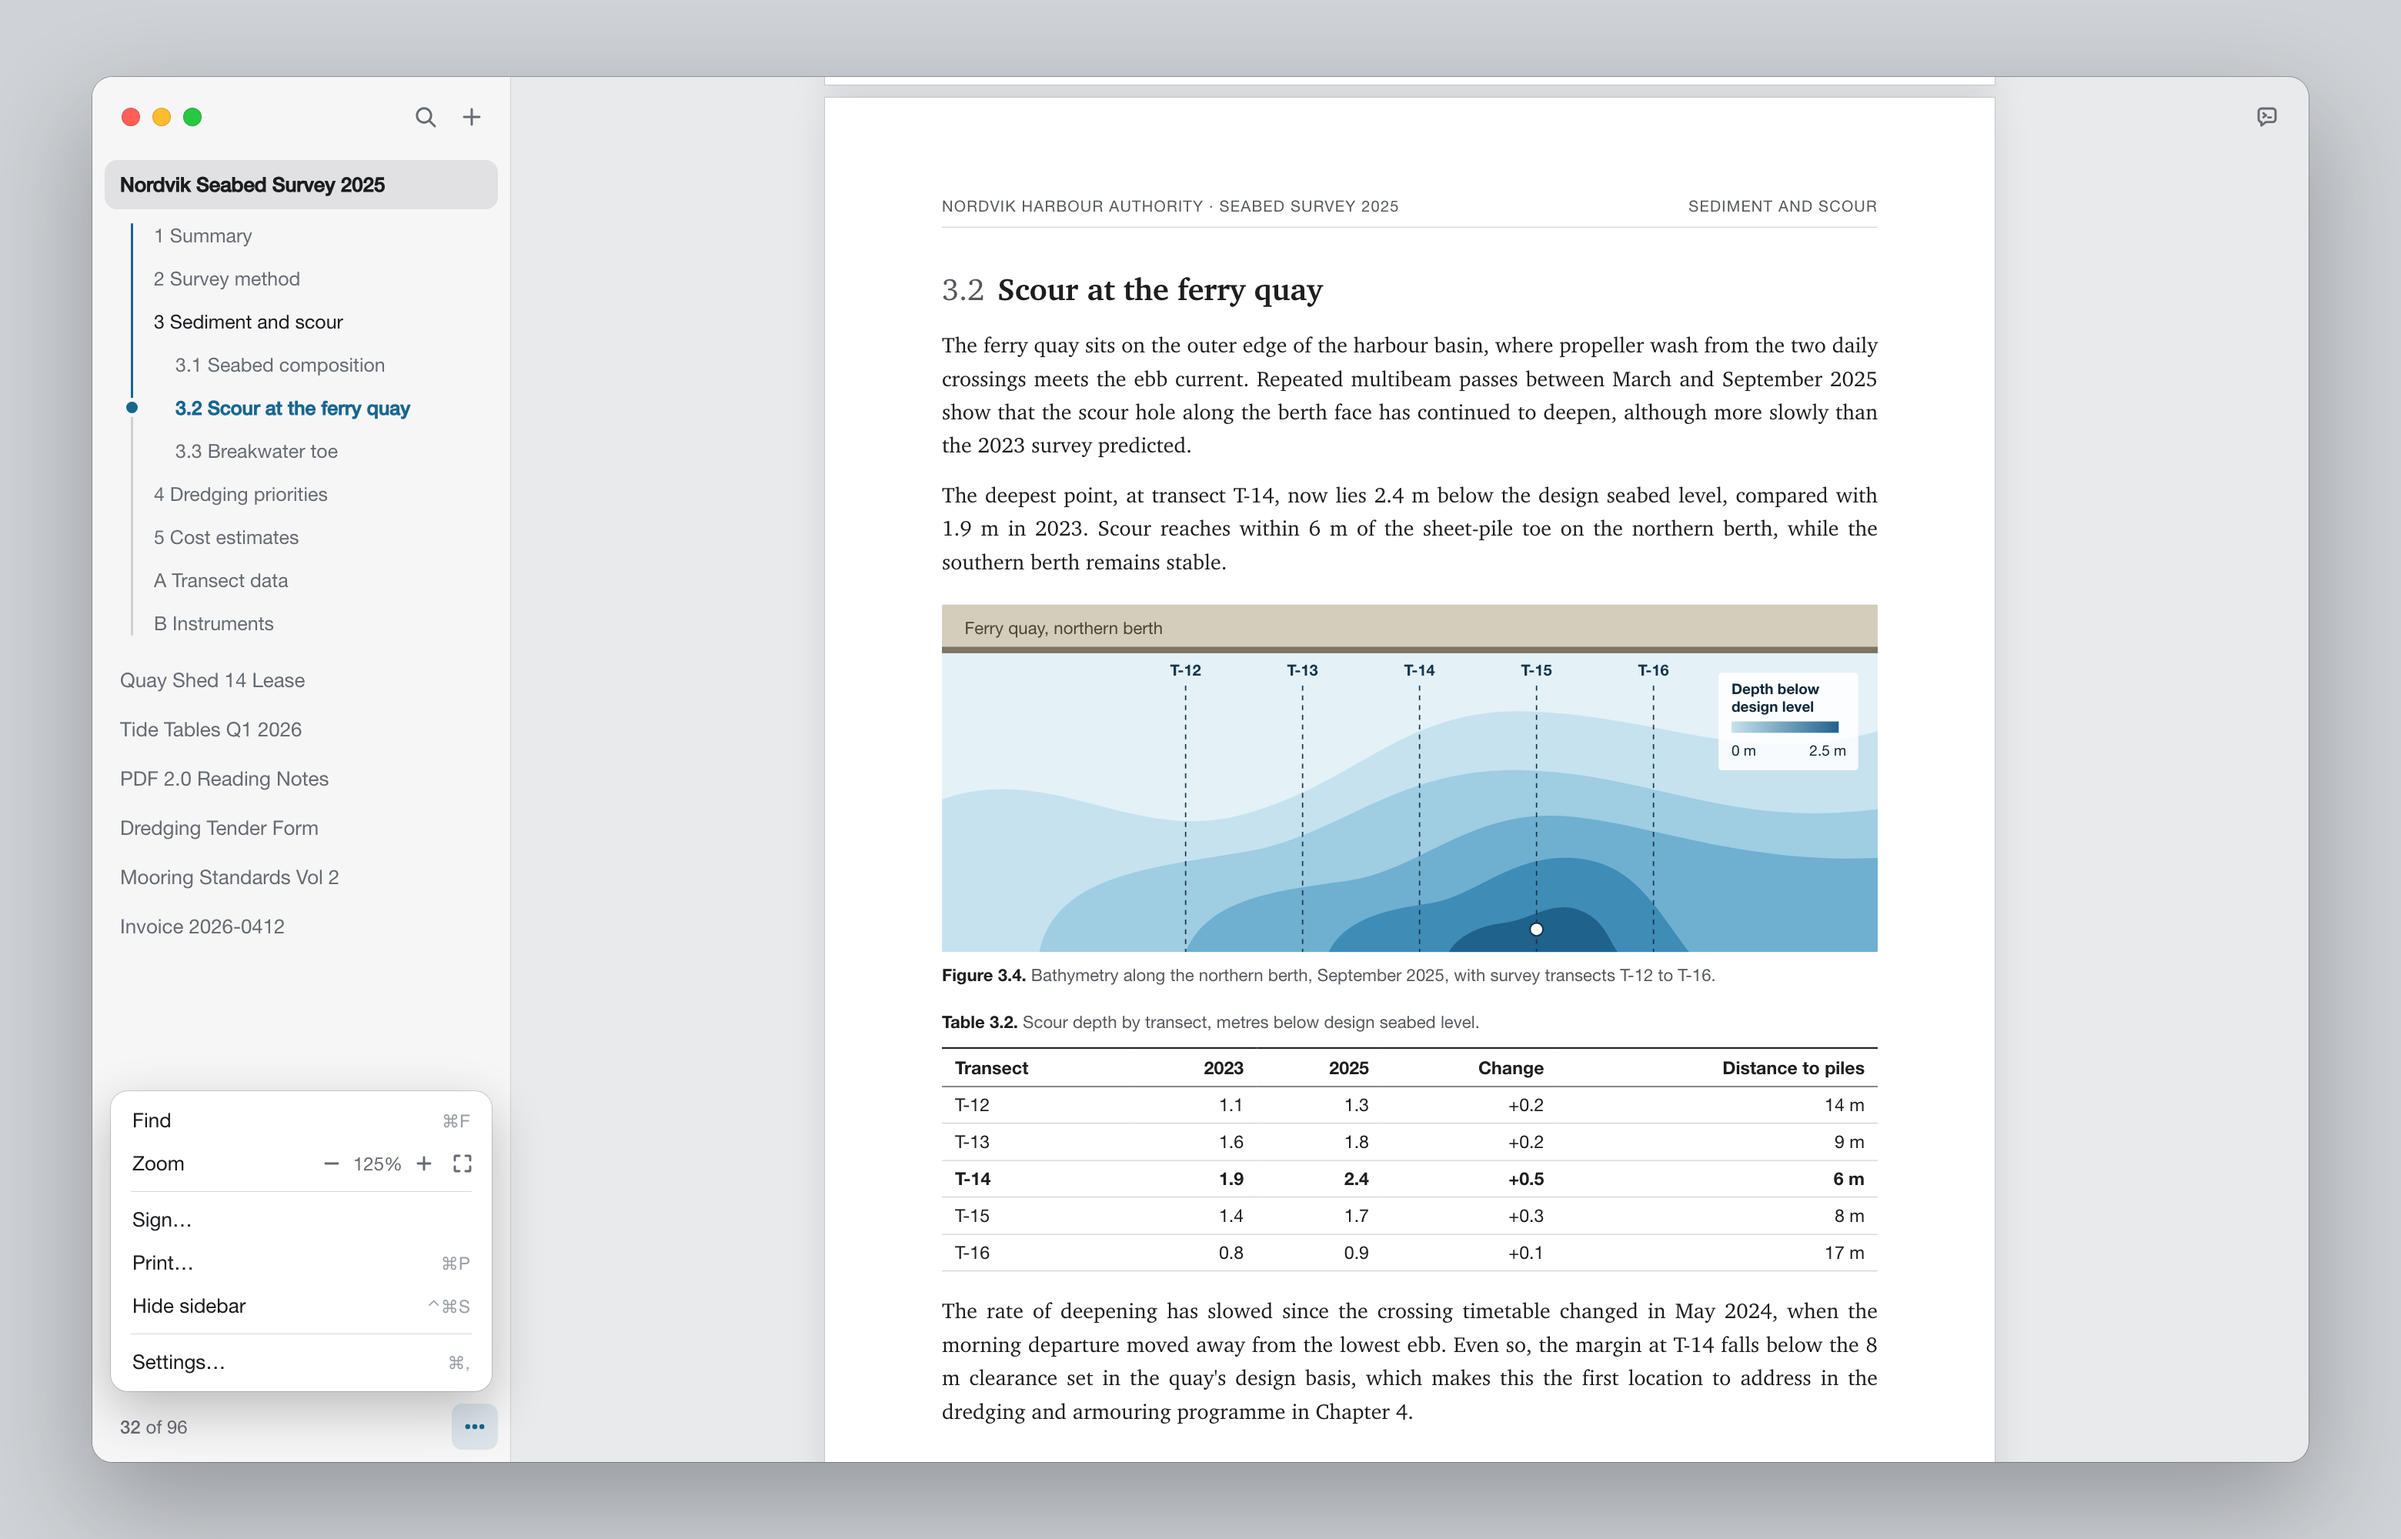
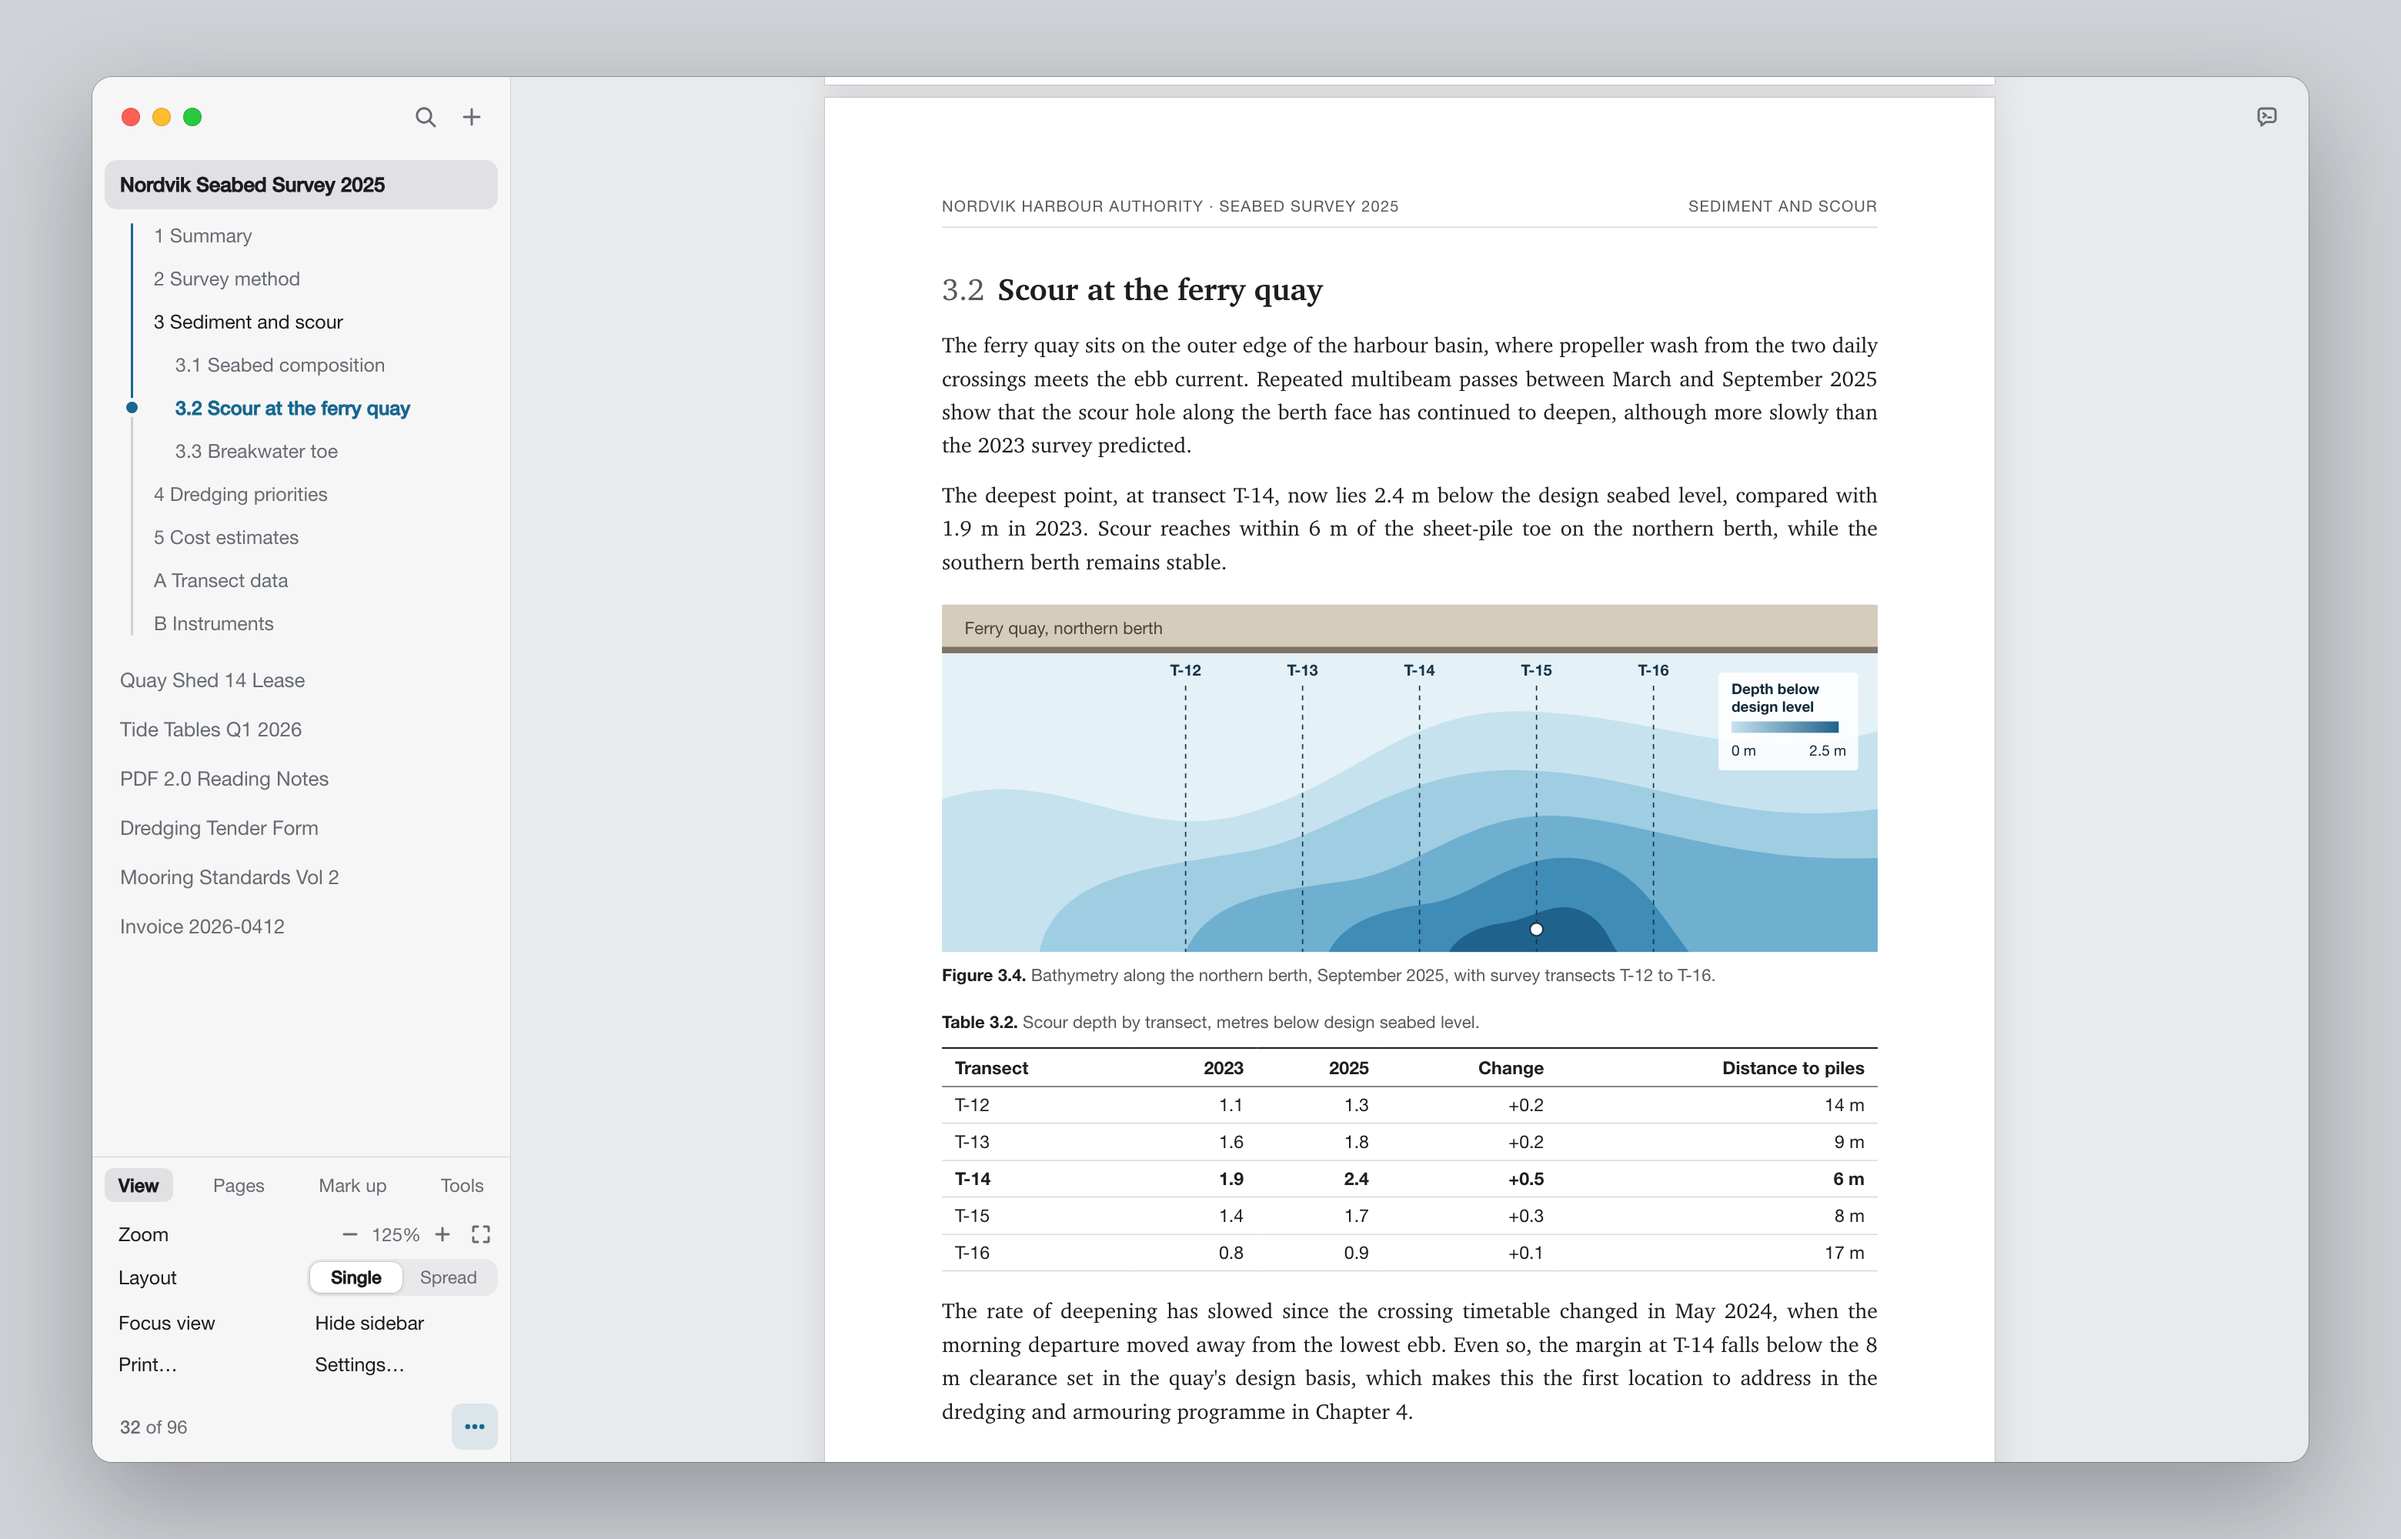
Move tools into a compact panel in the lower sidebar
The ⋯ button now opens a docked panel with View, Pages, Mark up and Tools tabs,
so complex features add no permanent buttons and the PDF list stays visible.
Tools open in place, shown here with Compress.

Changed region(s): [[0.0311, 0.744, 0.2176, 0.93]]

diff --git a/docs/concepts/src/concept.js b/docs/concepts/src/concept.js
@@ -25,6 +25,7 @@ const I = {
   send: svg(14, 14, '<path d="M7 11.5v-9M3.4 6 7 2.5 10.6 6"/>'),
   seal: svg(14, 14, '<path d="M7 1.3 8.5 2.5l1.9-.1.6 1.8 1.6 1.1-.7 1.8.7 1.7-1.6 1.1-.6 1.9-1.9-.1L7 12.7l-1.5-1.2-1.9.1-.6-1.9-1.6-1.1.7-1.7-.7-1.8L3 4.2l.6-1.8 1.9.1z"/><path d="m5 7 1.5 1.5L9.2 5.7"/>'),
   sigmark: svg(14, 14, '<path d="M7 1.3 8.5 2.5l1.9-.1.6 1.8 1.6 1.1-.7 1.8.7 1.7-1.6 1.1-.6 1.9-1.9-.1L7 12.7l-1.5-1.2-1.9.1-.6-1.9-1.6-1.1.7-1.7-.7-1.8L3 4.2l.6-1.8 1.9.1z"/>'),
+  back: svg(10, 10, '<path d="M6.5 1.8 3.100 5l3.400 3.200"/>'),
   key: svg(15, 15, '<circle cx="5" cy="10" r="2.8"/><path d="m7 8 5.2-5.2M10 5l1.8 1.8"/>'),
   lock: svg(14, 14, '<rect x="3" y="6.2" width="8" height="5.8" rx="1.3"/><path d="M4.8 6.2V4.6a2.2 2.2 0 0 1 4.4 0v1.6"/>'),
   page: svg(14, 14, '<path d="M3.5 2.8c0-.5.4-.9.9-.9h3.7l2.4 2.4v6.9c0 .5-.4.9-.9.9H4.4a.9.9 0 0 1-.9-.9z"/><path d="M8 2v2.4h2.4"/>'),
@@ -71,21 +72,34 @@ function sidebar({ active = "survey", open = true, tabs = TABS, tap = false, hov
   return `<aside class="sidebar">
     <div class="side-top"><div class="lights"><i></i><i></i><i></i></div><span class="ibtn ${on.includes("search") ? "on" : ""}">${I.search}</span><span class="ibtn">${I.plus}</span></div>
     <div class="tabs" style="position:relative">${rows}${tap ? '<span class="tap"></span>' : ""}</div>
-    <div class="side-foot">${chrome ? `<span class="place"><b>${pg[0]}</b> of ${pg[1]}</span>` : "<span></span>"}<span class="ibtn ${on.includes("more") ? "on" : ""}">${I.more}</span></div>
-    ${menu}
+    ${menu}<div class="side-foot">${chrome ? `<span class="place"><b>${pg[0]}</b> of ${pg[1]}</span>` : "<span></span>"}<span class="ibtn ${on.includes("more") ? "on" : ""}">${I.more}</span></div>
   </aside>`;
 }
 
 const AGENT = (on = false) => `<span class="ibtn agentbtn ${on ? "on" : ""}">${I.ask}</span>`;
 const pill = (page, total) => `<div class="pill"><span class="sec"><span class="num">${page}</span> of ${total}</span></div>`;
-const MENU = () => `<div class="menu">
-  <div class="mi">Find<kbd>⌘F</kbd></div>
-  <div class="mi zoomrow">Zoom<span class="zoom"><span class="zb">${I.minus}</span>125%<span class="zb">${I.plus14}</span><span class="zb">${I.fit}</span></span></div>
-  ${theme === "dark" ? `<div class="mi paperrow">Paper<span class="seg mini"><span class="on">Dark</span><span>White</span></span></div>` : ""}
-  <div class="msep"></div>
-  <div class="mi">Sign…</div><div class="mi">Print…<kbd>⌘P</kbd></div><div class="mi">Hide sidebar<kbd>⌃⌘S</kbd></div>
-  <div class="msep"></div>
-  <div class="mi">Settings…<kbd>⌘,</kbd></div></div>`;
+// The ⋯ button opens this in the lower part of the sidebar. PDFs and contents stay visible above it.
+const DOCK_TABS = ["View", "Pages", "Mark up", "Tools"];
+const grid = (items) => `<div class="dgrid">${items.map((t) => `<span>${t}</span>`).join("")}</div>`;
+const PANES = {
+  View: () => `<div class="dpane">
+    <div class="drow">Zoom<span class="zoom"><span class="zb">${I.minus}</span>125%<span class="zb">${I.plus14}</span><span class="zb">${I.fit}</span></span></div>
+    ${theme === "dark" ? `<div class="drow">Paper<span class="seg mini"><span class="on">Dark</span><span>White</span></span></div>` : ""}
+    <div class="drow">Layout<span class="seg mini"><span class="on">Single</span><span>Spread</span></span></div></div>
+    ${grid(["Focus view", "Hide sidebar", "Print…", "Settings…"])}`,
+  Pages: () => grid(["Thumbnails", "Rotate", "Reorder", "Insert", "Delete", "Extract", "Merge", "Split"]),
+  "Mark up": () => grid(["Highlight", "Underline", "Strikeout", "Note", "Draw", "Image signature", "Fill form", "Create form"]),
+  Tools: () => grid(["Snapshot", "Compare", "Compress", "Make searchable", "Redact", "Remove hidden data", "Watermark", "Bates numbers", "Password", "Measure"]),
+};
+const DOCK = (tab = "View", body = "") => `<div class="dock"><div class="dtabs">${DOCK_TABS.map((t) => `<span class="${t === tab ? "on" : ""}">${t}</span>`).join("")}</div>${body || PANES[tab]()}</div>`;
+const COMPRESS = `<div class="dback">${I.back}Compress<span>41 MB now</span></div>
+  <div class="levels">
+    <div class="lvl"><b>Low</b><span>220 DPI</span><em>33 MB</em></div>
+    <div class="lvl on"><b>Medium</b><span>150 DPI</span><em>18 MB</em></div>
+    <div class="lvl"><b>High</b><span>96 DPI</span><em>9 MB</em></div>
+  </div>
+  <div class="dnote">Text and vector graphics aren't touched.</div>
+  <div class="dsave"><span class="btn primary small">Save copy</span></div>`;
 
 // A bathymetry figure with its own colours: it keeps them in PDF dark mode, like photos do.
 const FIGURE = `<svg viewBox="0 0 576 214" xmlns="http://www.w3.org/2000/svg" font-family="-apple-system, Helvetica Neue, sans-serif">
@@ -217,7 +231,9 @@ const Screens = {
   home: () => `<div class="window">${sidebar({ active: "", tabs: [], chrome: false })}<main class="main">${HOME}</main></div>`,
   reader: () => `<div class="window">${sidebar({})}<main class="main">${surface({ extra: AGENT() })}</main></div>`,
   paperwhite: () => `<div class="window">${sidebar({})}<main class="main">${surface({ cls: "true-page", extra: AGENT() })}</main></div>`,
-  menu: () => `<div class="window">${sidebar({ on: "more", menu: MENU() })}<main class="main">${surface({ extra: AGENT() })}</main></div>`,
+  menu: () => `<div class="window">${sidebar({ on: "more", menu: DOCK("View") })}<main class="main">${surface({ extra: AGENT() })}</main></div>`,
+  tools: () => `<div class="window">${sidebar({ on: "more", menu: DOCK("Tools") })}<main class="main">${surface({ extra: AGENT() })}</main></div>`,
+  compress: () => `<div class="window">${sidebar({ on: "more", menu: DOCK("Tools", COMPRESS) })}<main class="main">${surface({ extra: AGENT() })}</main></div>`,
   find: () => `<div class="window">${sidebar({ on: "search", body: FIND })}<main class="main">${surface({ cls: "show-hits", extra: AGENT() })}</main></div>`,
   ask: () => `<div class="window">${sidebar({})}<main class="main">${surface({ cls: "show-cite", width: 700 })}${ASK}</main></div>`,
   sign: () => `<div class="window">${sidebar({ active: "lease", pg: [6, 6], body: STATUS + tocHtml(LEASE_TOC) })}<main class="main">${surface({ page: LEASE_PAGE, width: 700 })}${SIGN}</main></div>`,

diff --git a/docs/concepts/src/concept.css b/docs/concepts/src/concept.css
@@ -311,14 +311,30 @@ mark { background: transparent; color: inherit; }
 .surface > .agentbtn { position: absolute; top: 11px; right: 12px; z-index: 5; }
 .panel .agentbtn { }
 
-/* The ⋯ menu holds everything that isn't reading. */
-.menu { position: absolute; left: 12px; right: 12px; bottom: 46px; z-index: 9; background: var(--raised); border-radius: 11px; padding: 5px; box-shadow: 0 0 0 .5px var(--hair-strong), 0 12px 34px rgba(0,0,0,.24); font-size: 13px; }
-.mi { display: flex; align-items: center; justify-content: space-between; min-height: 28px; padding: 0 3px 0 9px; border-radius: 6px; }
-.mi kbd { font: 11.5px -apple-system, sans-serif; color: var(--faint); padding-right: 6px; }
-.msep { height: .5px; background: var(--hair-strong); margin: 4px 8px; }
-.mi .zoom { color: var(--muted); font-size: 12px; font-variant-numeric: tabular-nums; }
-.seg.mini { width: 112px; margin: 2px 0; font-size: 11.5px; }
+/* The ⋯ button opens a compact panel docked in the lower sidebar, not a popover. */
+.tabs { min-height: 0; }
+.dock { flex: none; border-top: .5px solid var(--hair-strong); padding: 7px 8px 6px; font-size: 12.5px; }
+.dtabs { display: grid; grid-template-columns: repeat(4, auto); justify-content: space-between; margin-bottom: 7px; }
+.dtabs span { padding: 3px 9px; border-radius: 6px; color: var(--muted); font-size: 12px; }
+.dtabs span.on { color: var(--text); background: var(--fill-strong); font-weight: 560; }
+.dpane { padding-bottom: 2px; }
+.drow { display: flex; align-items: center; justify-content: space-between; min-height: 28px; padding: 0 0 0 9px; }
+.drow .zoom { color: var(--muted); font-size: 12px; font-variant-numeric: tabular-nums; }
+.seg.mini { width: 124px; margin: 0; font-size: 11.5px; }
 .seg.mini span { padding: 2px 0; }
+.dgrid { display: grid; grid-template-columns: 1fr 1fr; }
+.dgrid span { min-height: 27px; display: flex; align-items: center; padding: 0 9px; border-radius: 6px; white-space: nowrap; font-size: 12.5px; }
+.dback { display: flex; align-items: center; gap: 6px; padding: 2px 9px 7px; font-weight: 560; }
+.dback svg { color: var(--muted); }
+.dback span { margin-left: auto; font-weight: 400; color: var(--muted); font-size: 11.5px; }
+.levels { display: grid; grid-template-columns: repeat(3, 1fr); gap: 5px; }
+.lvl { display: flex; flex-direction: column; gap: 1px; padding: 7px 8px; border-radius: 8px; background: var(--fill); font-size: 11px; color: var(--muted); }
+.lvl b { color: var(--text); font-weight: 560; font-size: 12px; }
+.lvl em { font-style: normal; color: var(--text); font-variant-numeric: tabular-nums; margin-top: 2px; }
+.lvl.on { background: var(--accent-soft); box-shadow: inset 0 0 0 1px var(--accent); }
+.dnote { padding: 7px 9px 3px; font-size: 11px; color: var(--muted); }
+.dsave { display: flex; justify-content: flex-end; padding: 3px 1px 2px; }
+.btn.small { height: 26px; padding: 0 11px; font-size: 12px; }
 .frame .side-foot { height: auto; }
 .side-foot .place { display: block; }
 .tap { left: 224px; top: 3px; }

diff --git a/docs/concepts/src/overview.html b/docs/concepts/src/overview.html
@@ -1,3 +1,3 @@
 <!DOCTYPE html><meta charset="utf-8"><title>RectoPDF concepts</title>
 <style>*{margin:0;box-sizing:border-box}body{width:1600px;background:#8d9095;padding:20px;display:grid;grid-template-columns:1fr 1fr;gap:16px}img{width:100%;display:block;border-radius:6px}</style>
-<img src="../home-light.png"><img src="../home-dark.png"><img src="../reader-light.png"><img src="../reader-dark.png"><img src="../reader-dark.png"><img src="../reader-dark-white-paper.png"><img src="../menu-light.png"><img src="../menu-dark.png"><img src="../find-light.png"><img src="../find-dark.png"><img src="../ask-light.png"><img src="../ask-dark.png"><img src="../sign-light.png"><img src="../sign-dark.png"><img src="../focus-light.png"><img src="../focus-dark.png">
+<img src="../home-light.png"><img src="../home-dark.png"><img src="../reader-light.png"><img src="../reader-dark.png"><img src="../reader-dark.png"><img src="../reader-dark-white-paper.png"><img src="../menu-light.png"><img src="../menu-dark.png"><img src="../tools-light.png"><img src="../tools-dark.png"><img src="../compress-light.png"><img src="../compress-dark.png"><img src="../find-light.png"><img src="../find-dark.png"><img src="../ask-light.png"><img src="../ask-dark.png"><img src="../sign-light.png"><img src="../sign-dark.png"><img src="../focus-light.png"><img src="../focus-dark.png">

diff --git a/SPEC.md b/SPEC.md
@@ -70,7 +70,7 @@ Reference: `docs/concepts/`. Rules from the owner:
 - **No top bar.** Maximum vertical reading space; nothing sits above or over a page.
 - **Tabs live in the sidebar.** Tapping the active PDF folds or opens its contents.
 - **At rest the sidebar is only names and contents.** The rail fills as you read. Chevron and page numbers appear on hover.
-- **Everything else** lives in a `⋯` menu and a ⌘K command list, or appears when relevant.
+- **Everything else lives in a compact panel** that the `⋯` button opens in the lower part of the sidebar, with tabs for View, Pages, Mark up and Tools. Owner, 2026-11-06: "the way we can add complex features without making the app complex is to let the … menu toggle open a compact menu in lower part of left sidebar with tabs". A tool such as Compress opens in place inside the panel, and the PDFs and contents stay visible above it. ⌘K finds any command.
 - **Agent icon at the top right**, in the empty margin. It opens the agent panel and stays in the same spot.
 - **Dark mode offers dark or white paper.** Signing always shows the true page.
 - **Focus view:** sidebar hidden, page number only, agent icon kept.
